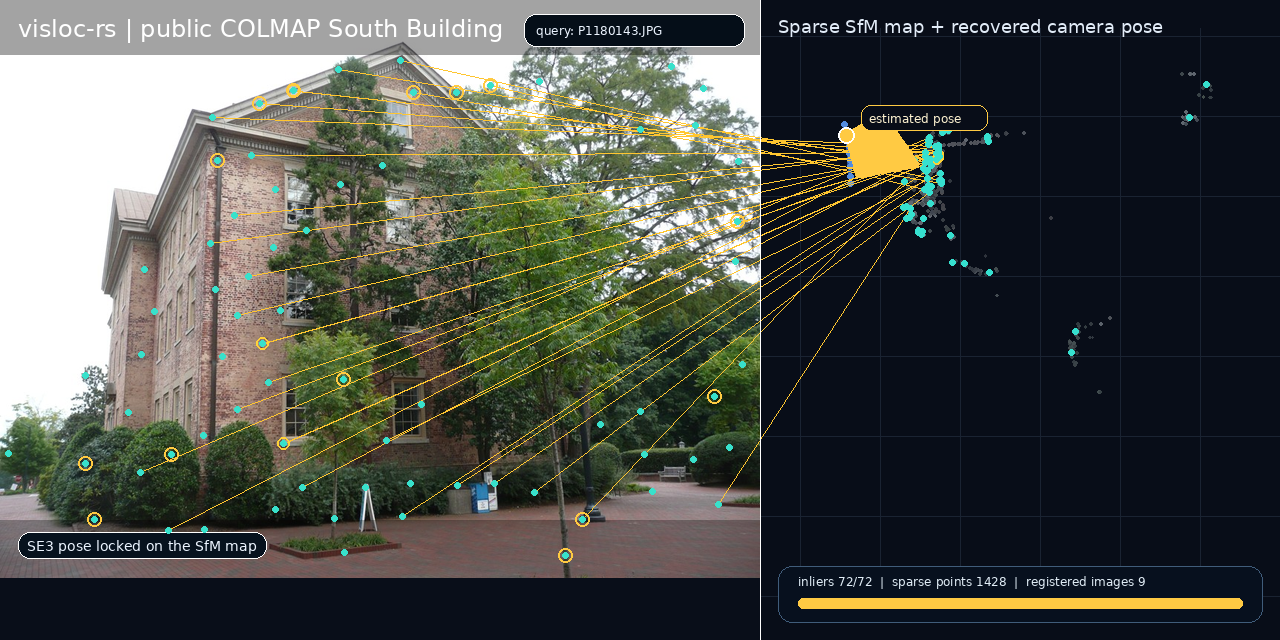
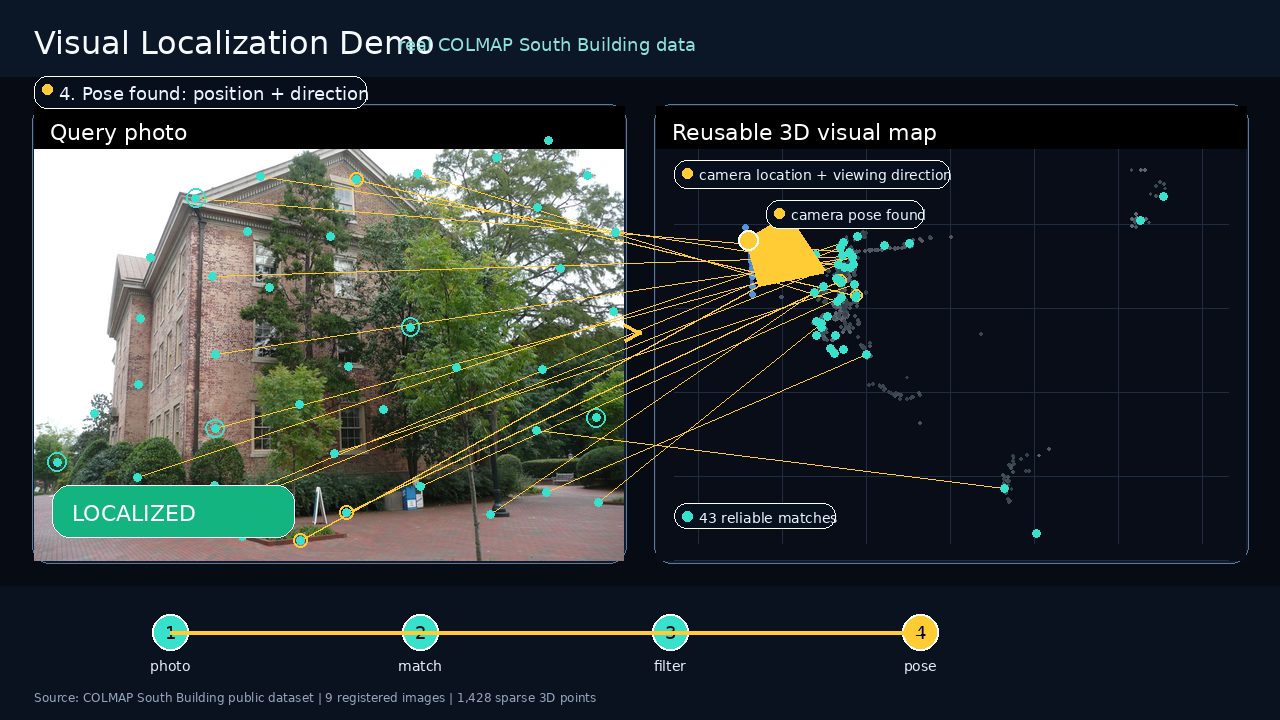
make public localization demo clearer

diff --git a/docs/public_data_demo.md b/docs/public_data_demo.md
@@ -25,7 +25,7 @@ The generated model registered 9 cameras and reconstructed 1,428 sparse 3D point
 ## README Assets
 
 - `docs/assets/south-building-query.jpg`: real query image from the public dataset subset.
-- `docs/assets/south-building-localization.png`: real query image with observed 2D points next to the sparse SfM point cloud and recovered camera frustum.
-- `docs/assets/south-building-localization.gif`: animated README version of the same public-data localization visualization.
+- `docs/assets/south-building-localization.png`: final frame of the public-data explainer, with the real query image, reliable 2D-3D matches, sparse SfM map, and recovered camera frustum.
+- `docs/assets/south-building-localization.gif`: animated README explainer showing the localization flow: query photo, 2D-3D matching, outlier rejection, and final camera pose.
 
-The visualization is intentionally a lightweight README artifact. It is not a benchmark and does not claim full SLAM; it demonstrates the library direction: Visual Localization first, using a reusable visual map and a query image pose.
+The visualization is intentionally a lightweight README artifact. It is not a benchmark and does not claim full SLAM; it demonstrates the library direction in a readable way: Visual Localization first, using a reusable visual map and a query image pose.

diff --git a/README.md b/README.md
@@ -25,7 +25,7 @@ The initial scope is intentionally narrow: load or build a visual map, connect q
   <img src="docs/assets/south-building-localization.gif" alt="COLMAP South Building public dataset visual localization demo with real query image and sparse SfM map" width="92%">
 </p>
 
-This README demo uses the public COLMAP South Building dataset. A small 9-image SfM model was rebuilt from the public images with `pycolmap`, producing 9 registered cameras and 1,428 sparse 3D points. The visualization shows a real query image, its 2D observations linked to reconstructed 3D points, and the recovered camera pose/frustum.
+This README demo uses the public COLMAP South Building dataset. A small 9-image SfM model was rebuilt from the public images with `pycolmap`, producing 9 registered cameras and 1,428 sparse 3D points. The animation is a four-step explainer: start from one real query photo, match photo points to the reusable 3D map, reject unreliable matches, then show the recovered camera position and viewing direction.
 
 Data source: the COLMAP official South Building dataset, distributed as [`south-building.zip`](https://github.com/colmap/colmap/releases/download/3.11.1/south-building.zip) from the COLMAP example datasets.
 
